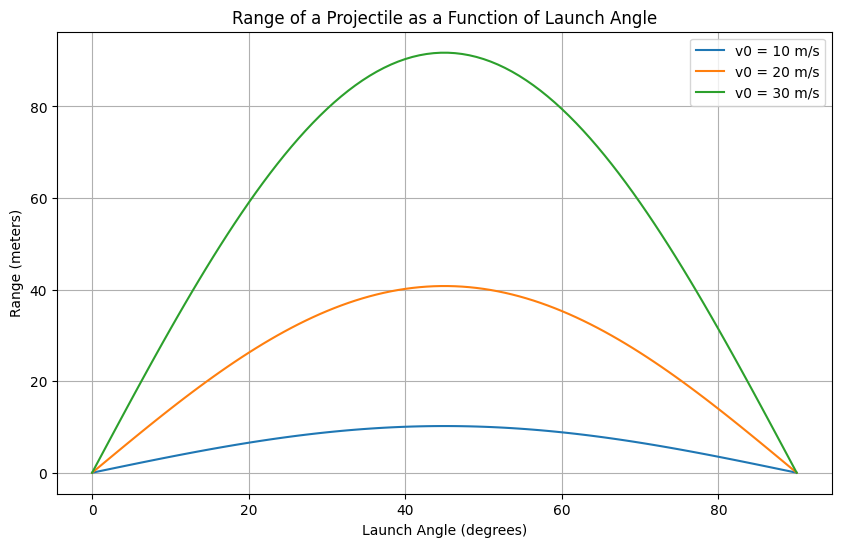
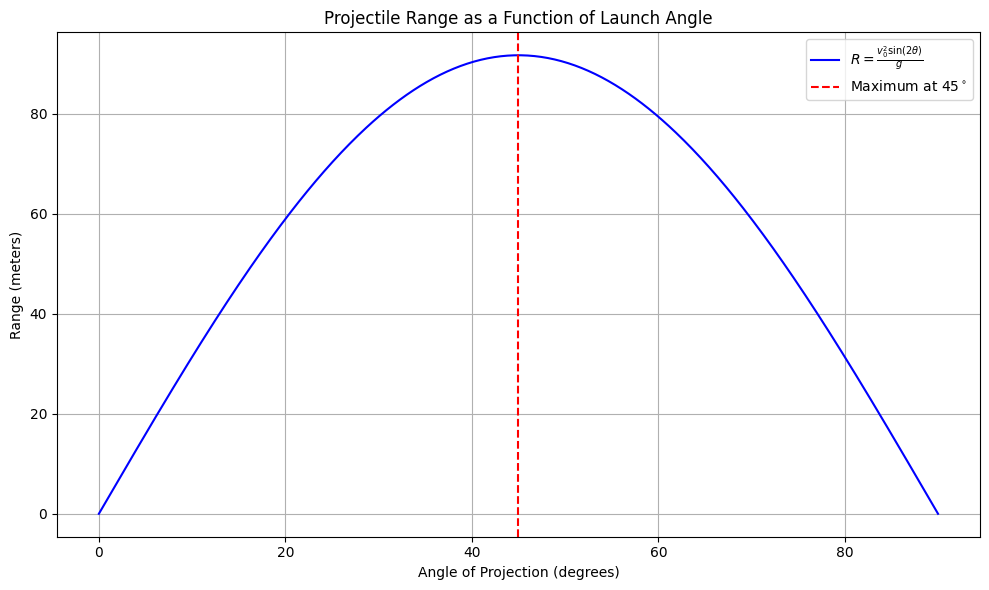
images

diff --git a/docs/1 Physics/1 Mechanics/Problem_1.md b/docs/1 Physics/1 Mechanics/Problem_1.md
@@ -1,137 +1,175 @@
+
+# Problem 1
+
 # Investigating the Range as a Function of the Angle of Projection
 
----
+## Theoretical Foundation
 
-## 1. Theoretical Foundation:
+We begin by considering the motion of a projectile under the influence of gravity. The motion in both the horizontal and vertical directions can be described using the following equations:
 
-Projectile motion refers to the motion of an object that is projected into the air under the influence of gravity, without any air resistance. The basic principles of projectile motion can be derived from Newton's second law and the kinematic equations.
+### Equations of Motion
 
-For simplicity, let's assume the projectile is launched from the origin \((x = 0, y = 0)\), with an initial velocity \(v_0\) at an angle \(\theta\) from the horizontal. The only force acting on the projectile is gravity, which accelerates the object downward with an acceleration of \(g = 9.81 \, m/s^2\) (on Earth).
+For a projectile launched with an initial velocity \( v_0 \) at an angle \( \theta \) to the horizontal, we can break the velocity into horizontal and vertical components:
 
-### Equations of Motion:
+- Horizontal velocity component: 
+  $$ v_{0x} = v_0 \cos(\theta) $$
 
-We can break the motion into horizontal and vertical components. 
+- Vertical velocity component: 
+  $$ v_{0y} = v_0 \sin(\theta) $$
 
-#### Horizontal motion (no acceleration):
-\[
-x(t) = v_0 \cos(\theta) \cdot t
-\]
-where \(x(t)\) is the horizontal displacement at time \(t\), \(v_0\) is the initial velocity, and \(\theta\) is the launch angle.
+The equations of motion in the horizontal (\(x\)) and vertical (\(y\)) directions are given by:
 
-#### Vertical motion (under acceleration due to gravity):
-\[
-y(t) = v_0 \sin(\theta) \cdot t - \frac{1}{2} g t^2
-\]
-where \(y(t)\) is the vertical displacement at time \(t\), and \(g\) is the gravitational acceleration.
+1. Horizontal motion:
+   $$ x(t) = v_{0x} t = v_0 \cos(\theta) t $$
 
-The time of flight \(T\) (the time it takes for the projectile to hit the ground) can be found by setting \(y(T) = 0\). Using the vertical motion equation:
+2. Vertical motion:
+   $$ y(t) = v_{0y} t - \frac{1}{2} g t^2 = v_0 \sin(\theta) t - \frac{1}{2} g t^2 $$
 
-\[
-0 = v_0 \sin(\theta) \cdot T - \frac{1}{2} g T^2
-\]
+Where:
+- \( g \) is the acceleration due to gravity
+- \( t \) is the time of flight
 
-Solve for \(T\):
+### Time of Flight
 
-\[
-T = \frac{2 v_0 \sin(\theta)}{g}
-\]
+To find the time of flight \( T \), we set the vertical displacement \( y(t) \) equal to zero when the projectile lands:
 
-#### Range (R):
-The range of the projectile is the horizontal distance it travels before hitting the ground. Using the time of flight \(T\) from above, the range \(R\) is:
+$$ 0 = v_0 \sin(\theta) T - \frac{1}{2} g T^2 $$
 
-\[
-R = x(T) = v_0 \cos(\theta) \cdot T
-\]
+Solving for \( T \), we get:
 
-Substituting for \(T\):
+$$ T = \frac{2 v_0 \sin(\theta)}{g} $$
 
-\[
-R = \frac{v_0^2 \sin(2\theta)}{g}
-\]
+### Range of the Projectile
 
-This equation is fundamental to understanding how the range of a projectile depends on the launch angle. The range is maximized when \(\sin(2\theta) = 1\), which occurs at \(\theta = 45^\circ\).
+The range \( R \) is the horizontal distance the projectile travels before landing. Using the time of flight \( T \), the range can be determined from the horizontal motion equation:
 
----
+$$ R = x(T) = v_0 \cos(\theta) T $$
 
-## 2. Analysis of the Range:
+Substituting the expression for \( T \):
 
-### Dependence of Range on the Launch Angle:
-The range \(R\) as a function of the launch angle \(\theta\) is given by:
+$$ R = v_0 \cos(\theta) \cdot \frac{2 v_0 \sin(\theta)}{g} $$
 
-\[
-R(\theta) = \frac{v_0^2 \sin(2\theta)}{g}
-\]
+Simplifying the expression for the range:
 
-- **For small angles** (\(\theta \to 0\)), the sine term \(\sin(2\theta) \to 0\), so the range is very short.
-- **At \(\theta = 45^\circ\)**, \(\sin(2\theta)\) reaches its maximum value of 1, giving the maximum range for a given initial velocity.
-- **For large angles** (\(\theta \to 90^\circ\)), the sine term again approaches 0, reducing the range.
+$$ R = \frac{v_0^2 \sin(2\theta)}{g} $$
 
-### Influence of Other Parameters:
+### Variations with Initial Conditions
 
-- **Initial Velocity (\(v_0\))**: The range is proportional to the square of the initial velocity. A higher launch velocity increases the range.
-  
-- **Gravitational Acceleration (\(g\))**: The range is inversely proportional to \(g\). In regions with lower gravitational acceleration (such as the Moon or Mars), the range for the same initial velocity will be larger than on Earth.
+As the angle \( \theta \) changes, the range of the projectile also changes. The sine function \( \sin(2\theta) \) shows how the range is maximized at an angle of \( 45^\circ \), where the value of \( \sin(2\theta) \) is 1.
 
-- **Launch Height**: The equations above assume the projectile is launched from the ground. If the launch height is above the ground (such as from a cliff), the projectile will stay in the air longer, increasing the range.
+Thus, the range is a function of the launch angle  $$ \theta $$ , initial velocity $$  v_0 $$ , and gravity \( g \). Variations in any of these initial conditions lead to a family of solutions for the range, allowing us to analyze how changes in conditions affect projectile motion.
 
----
-
-## 3. Practical Applications:
-
-This basic model of projectile motion can be extended to various real-world scenarios. Some examples include:
-
-- **Sports**: In sports like soccer, basketball, or golf, athletes often aim to maximize the range of their projectiles (e.g., a soccer ball or golf ball). The optimal launch angle is approximately 45 degrees, though factors like air resistance and spin affect the actual range.
-  
-- **Engineering**: Engineers designing missile trajectories must consider not only the angle of launch but also the effects of wind resistance, aerodynamic forces, and changes in the Earth's curvature.
-
-- **Astrophysics**: In space exploration, the launch angle of rockets can affect the trajectory and distance traveled, and the equations may need to be adapted to account for the vacuum of space and gravitational influences from other celestial bodies.
-
-#### Uneven Terrain & Air Resistance:
-The basic model assumes a flat Earth and neglects air resistance. In real-world applications, these factors can significantly alter the trajectory:
-
-- **Uneven Terrain**: If the projectile is launched on uneven terrain (e.g., from a hill), the initial height must be taken into account, which changes the equations for time of flight and range.
-  
-- **Air Resistance**: The presence of air resistance complicates the equations, as the drag force acting on the projectile depends on its velocity, shape, and the properties of the air. This would result in a non-parabolic trajectory.
-
----
-
-## 4. Implementation:
-
-Now let's implement a Python simulation to visualize the range of a projectile as a function of the launch angle, considering different initial velocities.
-
-```python
-import numpy as np
-import matplotlib.pyplot as plt
-
-# Constants
-g = 9.81  # gravitational acceleration (m/s^2)
-
-def range_of_projectile(v0, angle):
-    """
-    Calculate the range of a projectile launched with an initial velocity `v0` at an angle `angle`.
-    """
-    angle_rad = np.radians(angle)
-    return (v0 ** 2 * np.sin(2 * angle_rad)) / g
-
-# Parameters
-v0_values = [10, 20, 30]  # different initial velocities (m/s)
-angles = np.linspace(0, 90, 100)  # angles from 0 to 90 degrees
-
-# Plotting
-plt.figure(figsize=(10, 6))
-
-for v0 in v0_values:
-    ranges = [range_of_projectile(v0, angle) for angle in angles]
-    plt.plot(angles, ranges, label=f'v0 = {v0} m/s')
-
-plt.title("Range of a Projectile as a Function of Launch Angle")
-plt.xlabel("Launch Angle (degrees)")
-plt.ylabel("Range (meters)")
-plt.legend()
-plt.grid(True)
-plt.show()
-
-
-
-```
 ![alt text](image1.png)
+
+## Analysis of the Range:
+
+# Investigating the Range as a Function of the Angle of Projection
+
+## Analysis of the Range
+
+### Dependence of Range on the Angle of Projection
+
+From the previous derivation, we know the range \( R \) of the projectile is given by the equation:
+
+$$ R = \frac{v_0^2 \sin(2\theta)}{g} $$
+
+Where:
+- \( v_0 \) is the initial velocity
+- \( \theta \) is the angle of projection
+- \( g \) is the acceleration due to gravity
+
+We can analyze the behavior of the range as a function of the angle of projection \( \theta \).
+
+The term \( \sin(2\theta) \) in the range equation indicates that the range varies as a sinusoidal function of \( 2\theta \). The sine function reaches its maximum value of 1 when \( 2\theta = 90^\circ \), i.e., when $$\theta = 45^\circ $$. Therefore, the maximum horizontal range is achieved when the angle of projection is $$45^\circ $$.
+
+The relationship between the range and the angle of projection is symmetric. For angles greater than $$45^\circ $$, the range decreases as the sine function decreases after reaching its maximum. For angles less than $$ 45^\circ $$, the range also decreases as the angle moves further away from $$45^\circ $$.
+
+Thus, the range is maximized when $$ \theta = 45^\circ $$, and for other angles, the range decreases symmetrically on either side of this optimal angle.
+
+![alt text](image22.png)
+
+
+### Influence of Initial Velocity
+
+The range $$ R $$ is directly proportional to the square of the initial velocity $$v_0 $$:
+
+$$ R \propto v_0^2 $$
+
+This means that if the initial velocity $$v_0 $$ is increased, the range of the projectile increases as well. For example, doubling the initial velocity would quadruple the range, assuming the angle of projection and gravitational acceleration remain constant.
+
+### Influence of Gravitational Acceleration
+
+The range $$ R $$ is inversely proportional to the acceleration due to gravity $$ g $$:
+
+$$ R \propto \frac{1}{g} $$
+
+This means that in regions with lower gravitational acceleration (e.g., on the Moon compared to Earth), the range of the projectile would be greater. If the gravitational acceleration $$ g $$ is decreased, the range increases, assuming all other factors remain constant.
+
+### Combined Effect of Parameters
+
+The horizontal range depends on the combined effects of the initial velocity, the angle of projection, and gravitational acceleration. The optimal angle for the maximum range is $$45^\circ $$, but the exact range achieved also depends on how large the initial velocity $$ v_0 $$ is and how small the gravitational acceleration $$ g $$ is. 
+
+In summary:
+- The range is maximized at $$ \theta = 45^\circ $$ .
+- A higher initial velocity increases the range.
+- A lower gravitational acceleration increases the range.
+- 
+![alt text](image23.png)
+
+## Practical Applications
+
+### Projectiles on Uneven Terrain
+
+The model derived for projectile motion assumes a flat horizontal surface, where the projectile lands at the same height from which it was launched. However, in real-world scenarios, projectiles are often launched on uneven terrain, such as hilly or sloped surfaces. In these cases, the range calculation becomes more complex.
+
+To adapt the model for uneven terrain, we need to account for the change in height between the launch point and the landing point. The range equation must be modified to include the initial and final vertical displacements. The general form of the equation in the presence of a slope with angle $$ \alpha $$ is:
+
+$$ y(t) = v_0 \sin(\theta) t - \frac{1}{2} g t^2 $$
+
+Where the final vertical displacement $$ y(t) $$ will equal the slope height $$ h $$, and we would solve for $$ t $$ and the corresponding range.
+
+In this case, numerical methods or simulations are often employed to solve for the time of flight and range, as the equation becomes nonlinear due to the varying terrain height.
+
+### Air Resistance
+
+In reality, air resistance plays a significant role in the motion of projectiles, especially at high velocities. Air resistance acts against the motion of the projectile, slowing it down in both the horizontal and vertical directions. This introduces a non-conservative force, and the equations of motion must be modified accordingly.
+
+The force due to air resistance is typically modeled as:
+
+$$ F_{\text{drag}} = \frac{1}{2} C_d \rho A v^2 $$
+
+Where:
+
+ $$C_d $$
+
+ is the drag coefficient (dependent on the shape of the object),
+
+$$ rho $$ 
+
+ is the air density,
+ $$ a $$
+
+ is the cross-sectional area of the projectile,
+ $$ v $$
+
+ is the velocity of the projectile.
+
+To account for air resistance, the motion equations must be solved using the following system of differential equations:
+
+1. Horizontal direction: 
+   $$ m \frac{d^2 x}{dt^2} = -\frac{1}{2} C_d \rho A v \frac{dx}{dt} $$
+
+2. Vertical direction:
+   $$ m \frac{d^2 y}{dt^2} = -mg - \frac{1}{2} C_d \rho A v \frac{dy}{dt} $$
+
+Here, $$ v = \sqrt{\left(\frac{dx}{dt}\right)^2 + \left(\frac{dy}{dt}\right)^2} $$ represents the velocity magnitude.
+
+Incorporating air resistance requires numerical methods, such as Euler's method or Runge-Kutta methods, to solve these coupled differential equations. This makes the problem significantly more complex but provides a more accurate model of projectile motion in the real world.
+
+### Practical Considerations
+
+- **Accuracy of the Model**: In practical applications, adjustments for air resistance and terrain are crucial to making accurate predictions. In engineering, for example, understanding these factors is essential for designing projectiles, missiles, or sports equipment.
+- **Applications in Sports**: In sports such as basketball, soccer, or golf, understanding projectile motion with air resistance is crucial to predicting ball trajectories and optimizing performance.
+- **Military and Aerospace Engineering**: The design of artillery, missiles, and space missions often requires accounting for air resistance and uneven terrain, especially when the projectiles travel at high speeds and long distances.
+
+![alt text](image24.png)
